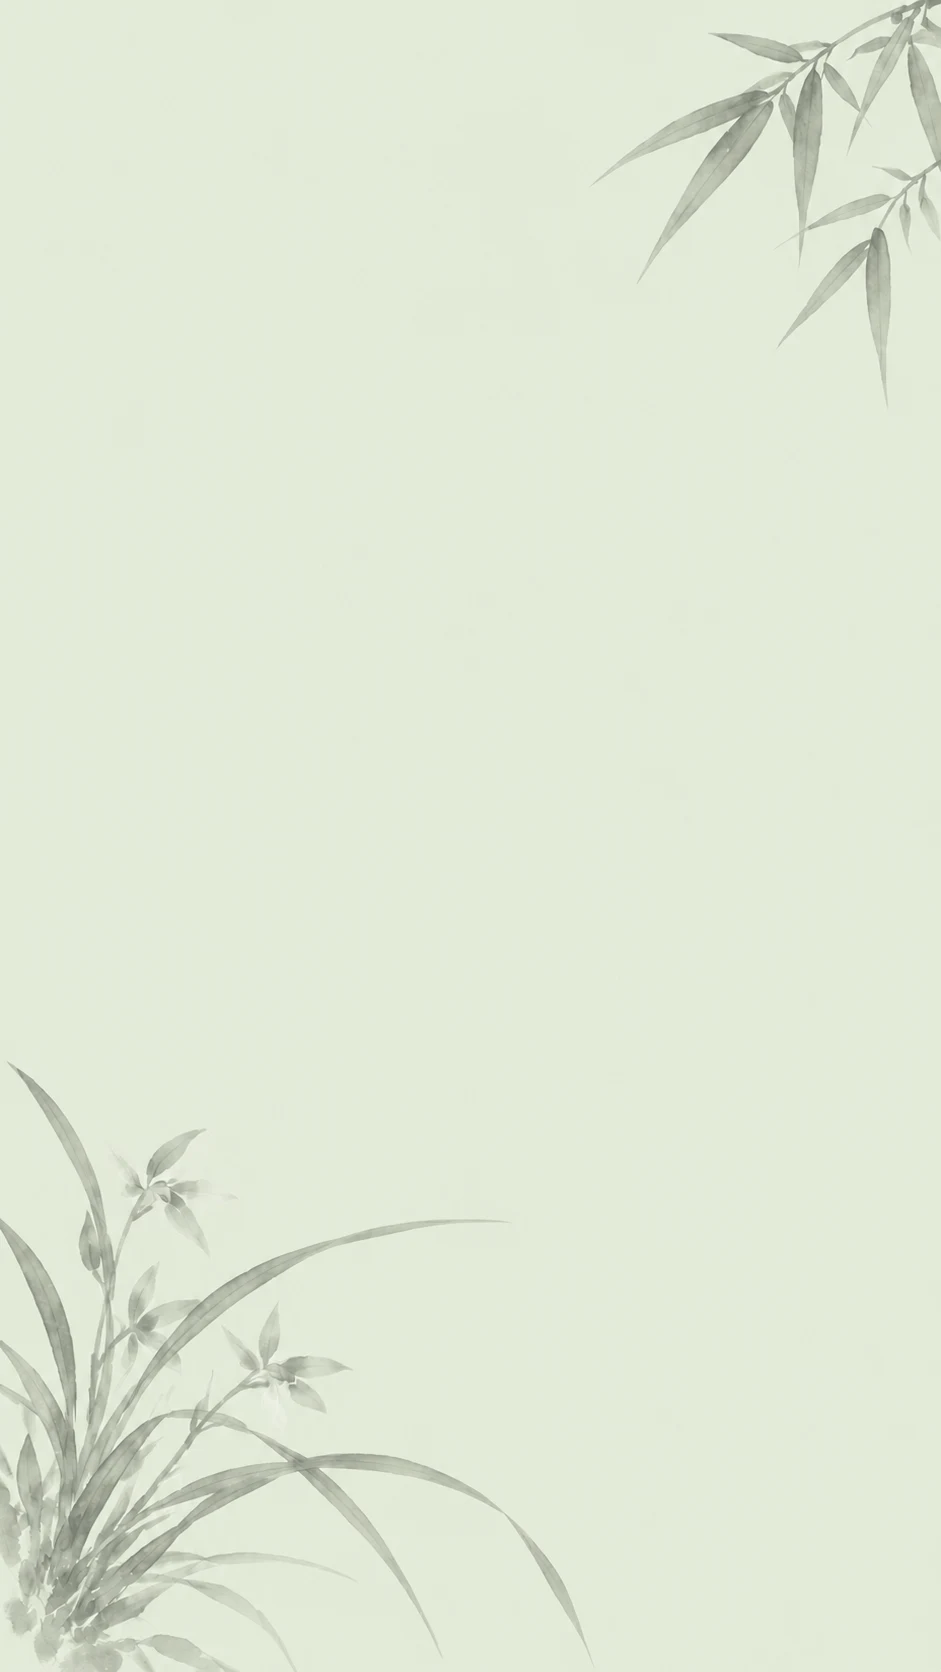
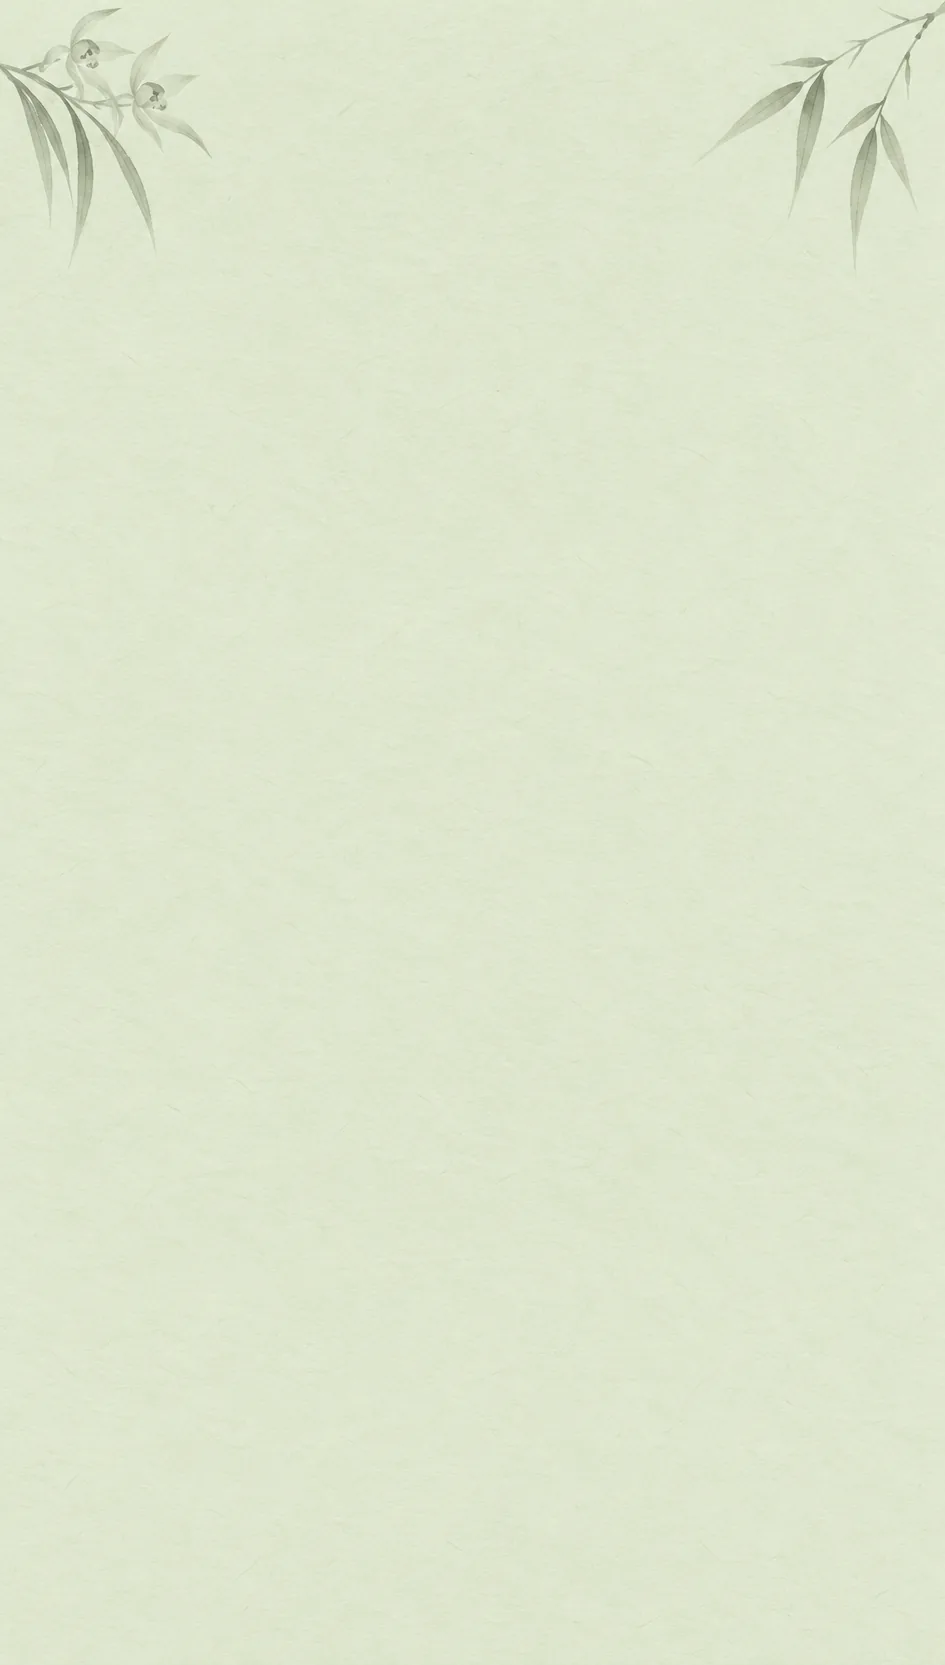
chore(live): 换竹兰背景图为底部留白版，解决兰花压备选标签
旧图 941x1672，兰花从画面底部三分之一一直伸上来，卡片拉伸铺满后正好压住
备选左栏的「避坑」标签。

新图 945x1665：兰花只占左上角（墨迹最低 11.8% 高度），竹叶只在右上角（10.9%），
40% 以下零墨点，底色 #DEE6CE 与原 #E0E7D6 差 8 级以内。

实测（按卡片 1080x2100 换算）：兰花最低点 y≈250，名字行从 y=330 开始，
不压字；dev server 200 返回 25KB webp。

diff --git a/HANDOFF.md b/HANDOFF.md
@@ -103,7 +103,7 @@ app/live/page.tsx              # 登录校验 + 渲染 LiveClient
 app/live/live-client.tsx       # 全部逻辑（状态机/SSE/存图）
 app/live/live.css              # 四套皮肤变量 + 竖屏版式
 app/api/reports/[id]/route.ts  # 新增：返回报告 JSON（/api/generate 只回 reportId）
-public/skins/bamboo-paper.webp # 竹兰背景，28KB
+public/skins/bamboo-paper.webp # 竹兰背景，25KB（底部留白版，2026-10-30 换）
 tools/fit-window.ps1           # 把浏览器窗口校正成精确 9:16 客户区
 启动直播台.bat                  # 直播启动器（ASCII 编码，自动找 Edge/Chrome）
 ```
